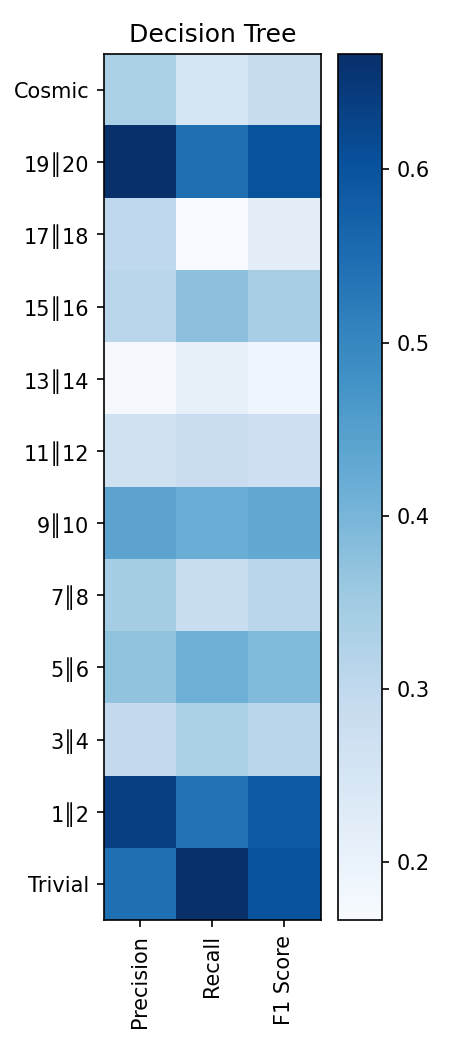
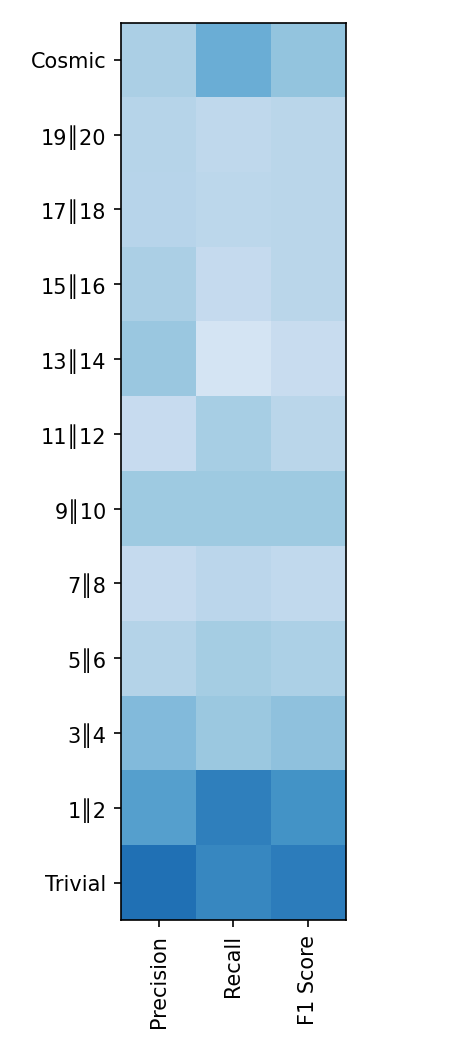
Updating images

diff --git a/src/classification/evaluation_specification.py b/src/classification/evaluation_specification.py
@@ -123,6 +123,7 @@ def save_classification_plot(
     title="Classification report ",
     with_avg_total=False,
     cmap=plt.cm.Blues,
+#    cmap=plt.cm.RdYlBu,
 ):
     class_amount = len(class_names)
     x_tick_marks = range(3)
@@ -137,6 +138,13 @@ def save_classification_plot(
         "pad_inches": 0,
         "transparent": True,
     }
+    image_colors = {
+        "interpolation": "nearest",
+        "cmap": cmap,
+        "origin": "lower",
+        "vmin": 0,
+        "vmax": 1,
+    }
 
     metric_matrix = []
     for i in class_names:
@@ -146,14 +154,14 @@ def save_classification_plot(
         metric_matrix.append(row)
 
     plt.figure(figsize=(3, 7), dpi=image_dotspi)
-    plt.imshow(metric_matrix, interpolation="nearest", cmap=cmap, origin="lower")
-    plt.title(title)
-    plt.colorbar()
+    plt.imshow(metric_matrix, **image_colors)
+    # plt.title(title)
+    # plt.colorbar()
     plt.xticks(x_tick_marks, ["Precision", "Recall", "F1 Score"], rotation=90)
     plt.yticks(y_tick_marks, class_names)
     plt.tight_layout()
-    #    plt.ylabel('Tiers')
-    #    plt.xlabel('Measures')
+    # plt.ylabel('Tiers')
+    # plt.xlabel('Measures')
     plt.savefig(**image_detail)
     plt.clf()
 
